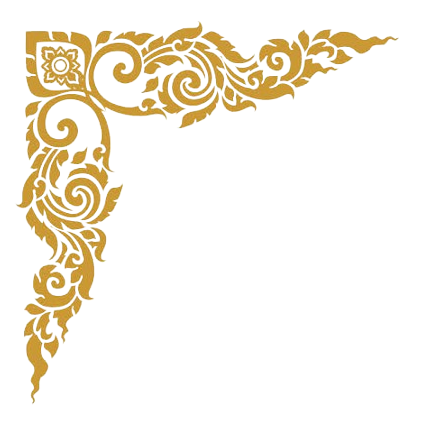
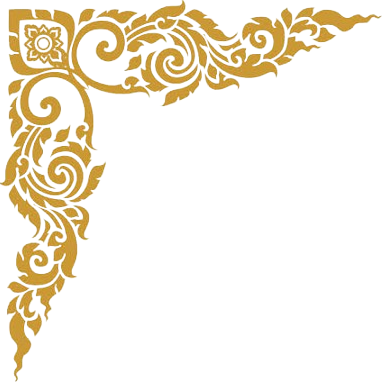
frist

Changed region(s): [[0.0, 0.0, 1.0, 1.0]]

diff --git a/index.html b/index.html
@@ -23,18 +23,17 @@
 </head>
 <body class="bg-pattern min-h-screen flex flex-col items-center justify-center p-0 sm:p-6 text-amber-100">
 
-   
-    <nav  id="navbar" class="navbar-btn" data-aos="fade-down">
-        <a id="home" class="nav-btn bg-gradient-to-r from-amber-600 to-yellow-600 hover:from-amber-500 hover:to-yellow-500 text-red-950 font-bold px-5 py-2.5 rounded-full shadow-lg transition transform hover:scale-102 battambang-font text-xs sm:text-sm w-full sm:w-auto" href="/">
-            សូមគោរពអញ្ចើញ
-        </a>
-        <a id="about" class="nav-btn bg-red-900/80 hover:bg-red-800 text-amber-200 border border-amber-400/50 font-semibold px-4 py-2.5 rounded-full shadow transition transform hover:scale-102 battambang-font text-xs sm:text-sm w-full sm:w-auto" href="/about">
-            សិរីមង្គលអាពាហ៍ពិពាហ៍
-        </a>
-    </nav>
-
-
-    <div id="app"></div>
+    <div class="my-contect">
+       <nav  id="navbar" class="navbar-btn">
+           <a id="home" class="nav-btn bg-gradient-to-r from-amber-600 to-yellow-600 hover:from-amber-500 hover:to-yellow-500 text-red-950 font-bold px-5 py-2.5 rounded-full shadow-lg transition transform hover:scale-102 battambang-font text-xs sm:text-sm w-full sm:w-auto" href="/">
+               សូមគោរពអញ្ចើញ
+           </a>
+           <a id="about" class="nav-btn bg-red-900/80 hover:bg-red-800 text-amber-200 border border-amber-400/50 font-semibold px-4 py-2.5 rounded-full shadow transition transform hover:scale-102 battambang-font text-xs sm:text-sm w-full sm:w-auto" href="/about">
+               សិរីមង្គលអាពាហ៍ពិពាហ៍
+           </a>
+       </nav>
+       <div id="app"></div>
+   </div>
 
 
     <script type="module" src="./js/app.js"></script>

diff --git a/style.css b/style.css
@@ -6,7 +6,11 @@ body {
 }
 @media screen and (max-width: 640px) {
     body {
-        overflow-X: hidden !important;
+        padding: 0px 4px;
+        overflow-x: hidden !important;
+    }
+    .my-contect{
+        overflow: hidden !important;
     }
 }
 
@@ -30,8 +34,7 @@ body {
 }
 @media screen and (max-width: 640px) {
     body {
-        overflow-X: hidden !important;
-        padding: 2px !important;
+        padding: 0px !important;
     }
     .frame {
         padding: 50px 20px !important;
@@ -60,6 +63,28 @@ body {
     left: -13px;
     transform: rotate(-90deg);
 }
+
+@media screen and (max-width: 640px) {
+    .frame .conner-left{
+        top: -2px;
+        left: -1px;
+    }
+    .frame .conner-right{
+        top: -2px;
+        right: -1px;
+    }
+    .frame .conner-bottom-right{
+        bottom: -2px;
+        right: -1px;
+    }
+    .frame .conner-bottom-left{
+        bottom: -2px;
+        left: -1px;
+    }
+
+}
+
+
 .battambang-font {
     font-family: 'Hanuman', cursive;
 }
@@ -139,12 +164,19 @@ body {
 }
 
 .navbar-btn {
+    padding: 0 4px;
     width: 100%;
     display: flex;
     justify-content: center;
     align-items: center;
     gap: 14px;
     transition: transform 0.3s ease;
+    transform: translateY(0%);
+    animation: navbar 0.6s linear;
+}
+@keyframes navbar {
+    0%{transform: translateY(-100%); opacity: 0;}
+    100%{transform: translateY(0%); opacity: 1;}
 }
 .navbar-btn.fixed {
     position: fixed;

diff --git a/src/output.css b/src/output.css
@@ -936,6 +936,9 @@
     .sm\:flex-row {
       flex-direction: row;
     }
+    .sm\:overflow-hidden {
+      overflow: hidden;
+    }
     .sm\:p-6 {
       padding: calc(var(--spacing) * 6);
     }
